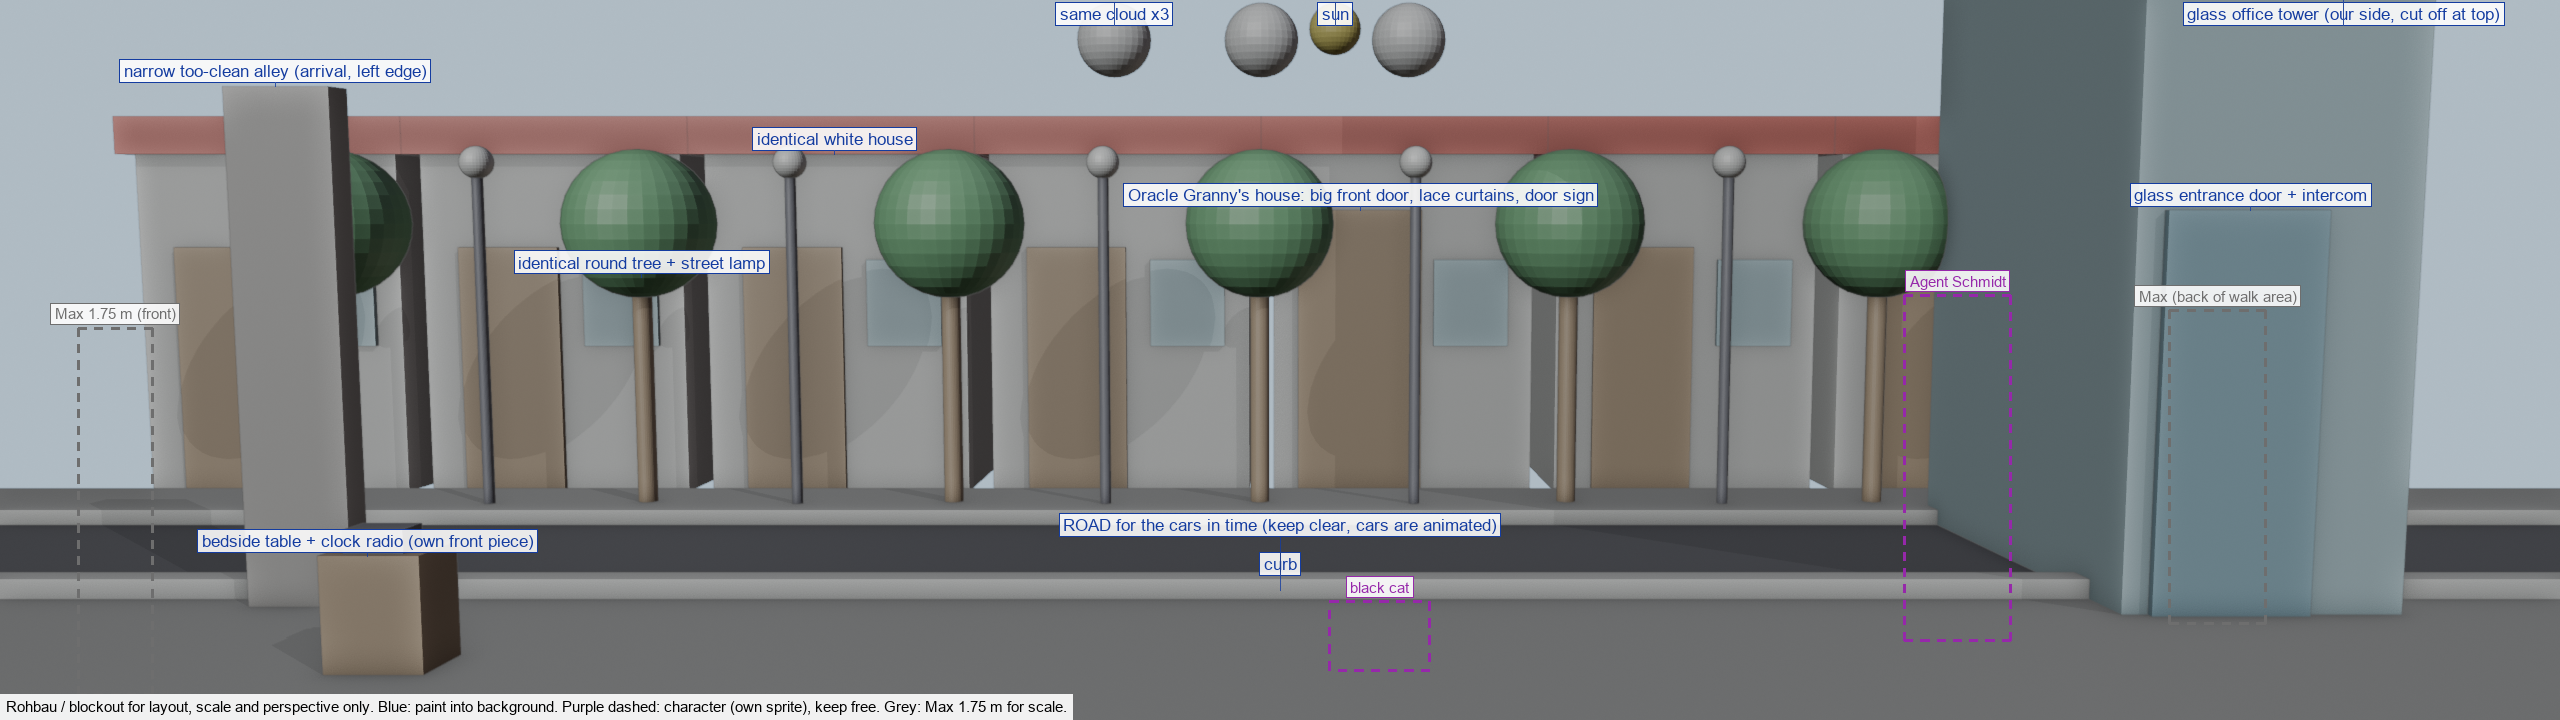
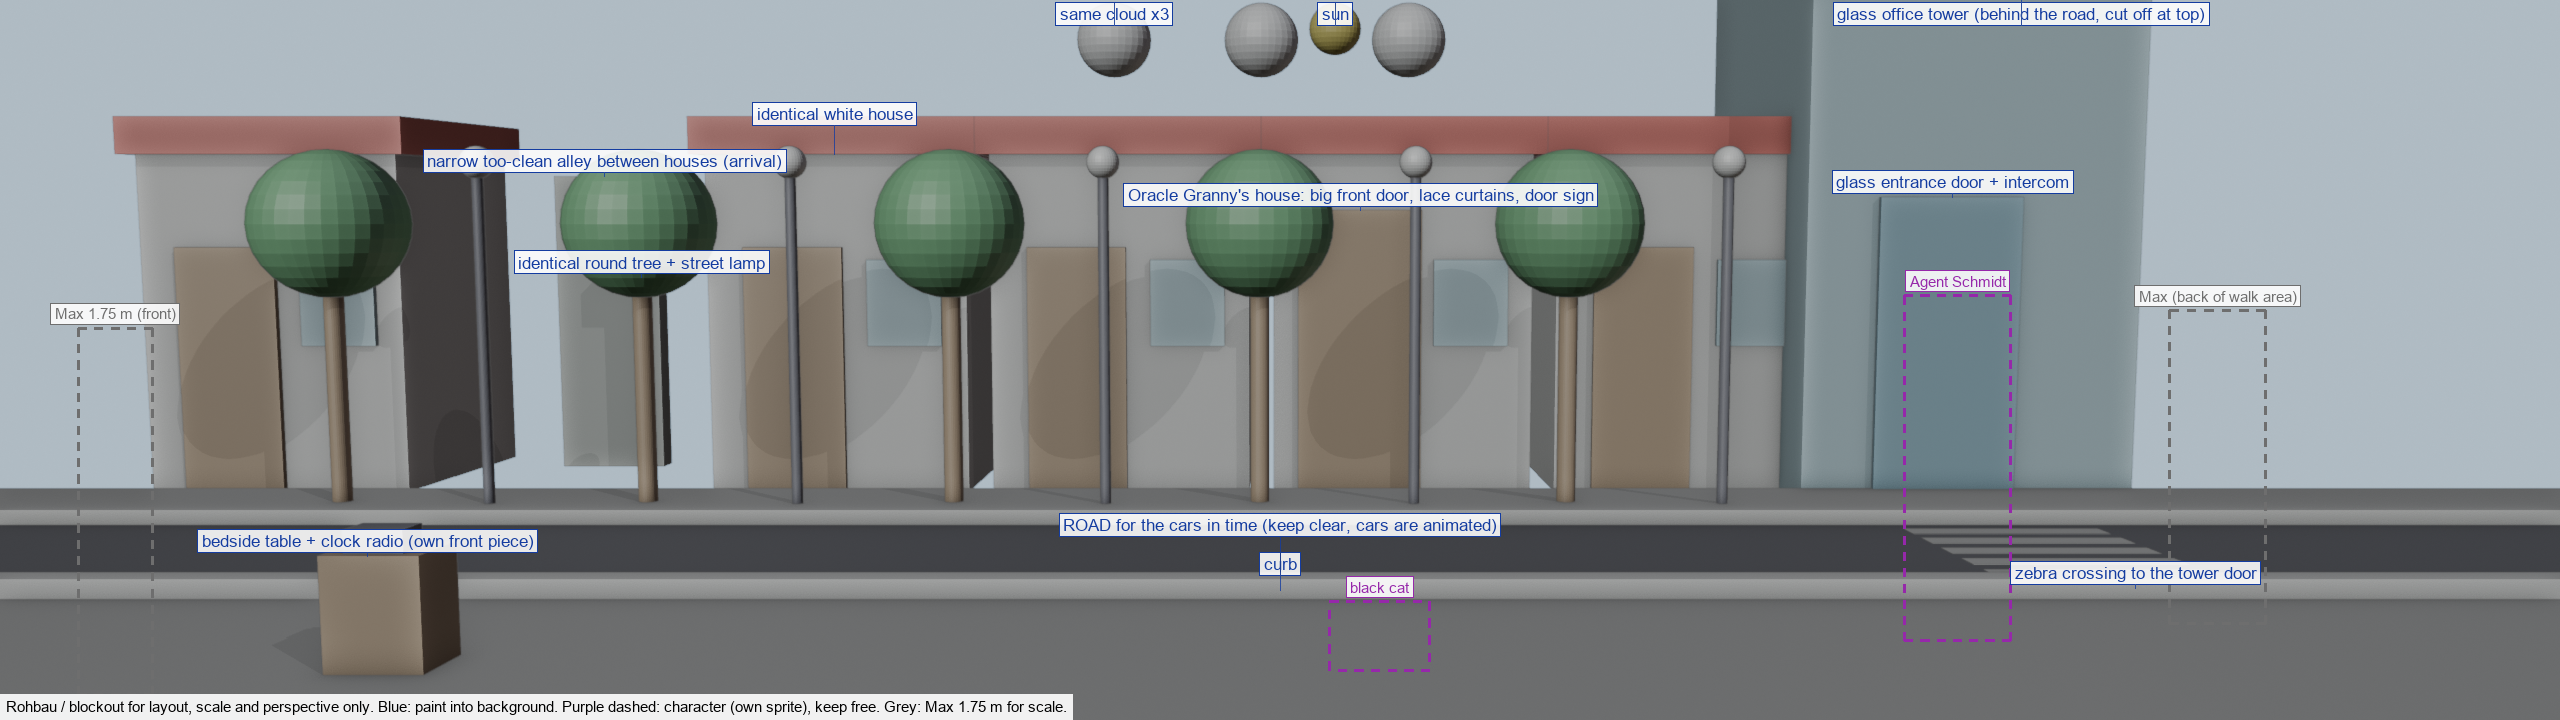
Welt 3: Rohbau Stadtstraße – Büroturm hinter der Fahrbahn mit Zebrastreifen, Gasse als Lücke zwischen den Häusern

Changed region(s): [[0.6562, 0.0, 1.0, 0.8556], [0.0312, 0.0611, 0.375, 0.7333], [0.0938, 0.7639, 0.125, 0.825]]

diff --git a/tools/grafik_w3/rohbau_raeume.py b/tools/grafik_w3/rohbau_raeume.py
@@ -250,8 +250,11 @@ def stadtstrasse():
     box("ROAD for the cars in time (keep clear, cars are animated)", 6, 2.4, 30, 2.2, 0.01, col=STRASSE)
     box(None, 6, 4.6, 30, 1.0, 0.12, col=GEHWEG)                               # Gehweg hinten
     box(None, 6, 5.6, 30, 0.6, 0.02, col=RASEN)                                # schmaler Vorgarten
+    box("narrow too-clean alley between houses (arrival)", 0.0, 7.6, 0.9, 0.2, 2.6, col=(0.55, 0.58, 0.55, 1))
     for i in range(8):
         x = -2.2 + i * 2.3
+        if abs(x - 0.0) < 0.9 or x > 9.5:
+            continue
         oma = (i == 4)
         box("identical white house" if i == 2 else None, x, 6.2, 2.1, 2, 2.75, col=HELL)
         box(None, x, 6.1, 2.3, 2.2, 0.3, z=2.75, col=ROT)
@@ -262,6 +265,8 @@ def stadtstrasse():
             box(None, fx, 6.15, 0.6, 0.05, 0.7, z=1.2, col=GLAS)
     for i in range(7):
         x = -1.05 + i * 2.3
+        if x > 9.5:
+            continue
         zyl("identical round tree + street lamp" if i == 1 else None, x, 5.0, 0.07, 1.8, col=HOLZ)
         kugel(None, x, 5.0, 0.55, 2.2, col=GRUEN)
         zyl(None, x + 1.15, 4.9, 0.04, 2.6, col=DUNKEL)
@@ -270,12 +275,13 @@ def stadtstrasse():
         kugel("same cloud x3" if x == 1.5 else None, x, 40, 1.0, 6.9, col=(1, 1, 1, 1))
     kugel("sun", 7.5, 40, 0.7, 7.2, col=GELB)
     # vorn links: Gasse und Nachttisch
-    box("narrow too-clean alley (arrival, left edge)", 0.3, 2.0, 0.6, 0.2, 3.0, col=MITTEL)
     box("bedside table + clock radio (own front piece)", 1.5, 0.5, 0.5, 0.4, 0.6, col=HOLZ)
     box(None, 1.5, 0.55, 0.3, 0.2, 0.12, z=0.6, col=DUNKEL)
     # rechts: Büroturm auf unserer Seite
-    box("glass office tower (our side, cut off at top)", 11.6, 1.8, 1.6, 3, 9, col=GLAS)
-    box("glass entrance door + intercom", 11.4, 1.75, 0.9, 0.05, 2.3, col=(0.40, 0.60, 0.70, 1))
+    box("glass office tower (behind the road, cut off at top)", 11.4, 5.6, 2.6, 3, 12, col=GLAS)
+    box("glass entrance door + intercom", 11.2, 5.55, 1.1, 0.05, 2.4, col=(0.40, 0.60, 0.70, 1))
+    for i in range(6):
+        box("zebra crossing to the tower door" if i == 0 else None, 11.2, 2.45 + i * 0.36, 1.4, 0.2, 0.012, col=HELL)
     figur("Agent Schmidt", 9.6, 1.2, 1.85)
     figur("black cat", 6.5, 0.6, 0.35, 0.5)
     max_massstab()
